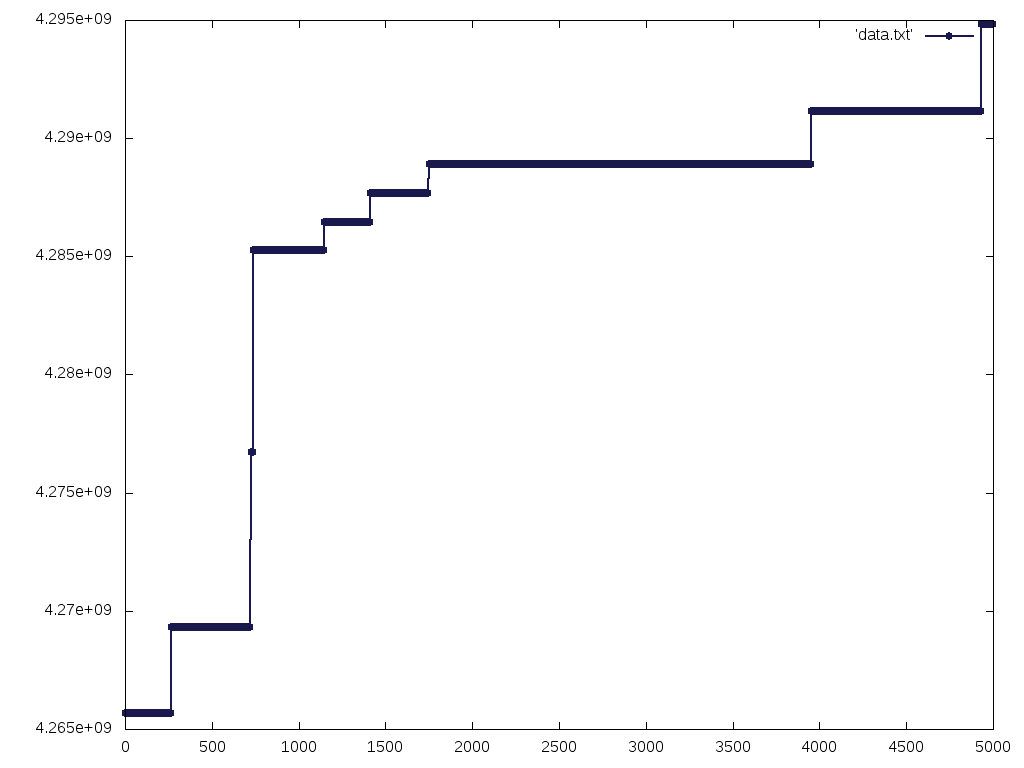
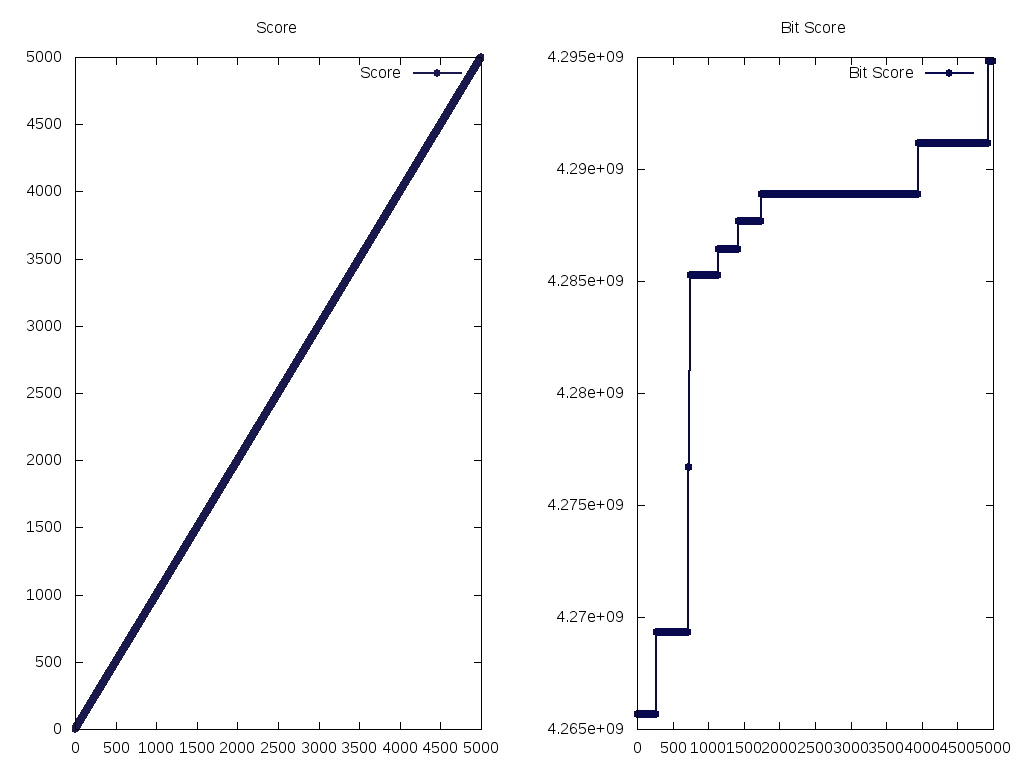
Updated plot script to show two different graphs, one for regular score and other for bit score

diff --git a/tamu/2semester/420/project/GAMultiplier.h b/tamu/2semester/420/project/GAMultiplier.h
@@ -21,9 +21,17 @@ class GAMultiplier : public Multiplier
     private:
 
         // Stores the fitness of this value
+        // The fitness function is the number of successful multiplications
         //
         unsigned int score;
 
+
+        // Stores the score by bit
+        // This score is the number pairs of bits of output and expected output
+        // When all bits of a multiplication are correct the score is summed by 30 * 2
+        // When n < 30 bits are correct the score is summed by n
+        //
+        unsigned int bit_score;
 
         // Stores the number of primes that should be tested to evaluate this multiplier
         //

diff --git a/tamu/2semester/420/project/GAMultiplier.cpp b/tamu/2semester/420/project/GAMultiplier.cpp
@@ -8,6 +8,7 @@ GAMultiplier::GAMultiplier (unsigned int eval_reps) : Multiplier ()
         eval_reps = NUMBER_OF_PRIMES;
 
     score = 0;
+    bit_score = 0;
 }
 
 
@@ -36,9 +37,8 @@ unsigned int GAMultiplier::getFitness ()
 
 void GAMultiplier::eval ()
 {
-    unsigned int points = 0;
-    // std::cout << "Number of primes: " << NUMBER_OF_PRIMES << std::endl;
-
+    score = 0;
+    bit_score = 0;
     for (unsigned int i = 0; i < eval_reps; i++)
     {
         unsigned int p1i = rand () % (NUMBER_OF_PRIMES / 2);

diff --git a/tamu/2semester/420/project/GeneticAlgorithm.cpp b/tamu/2semester/420/project/GeneticAlgorithm.cpp
@@ -53,8 +53,8 @@ void GeneticAlgorithm::startPopulation ()
 
         GAMultiplier * mp = new GAMultiplier (kPrimesToTestk, gates);
         
-        delete mp;
-        mp = createRandomIndividual ();
+        // delete mp;
+        // mp = createRandomIndividual ();
 
         // std::cout << "Inserting object: " << mp << std::endl;
         population.push_back (mp);
